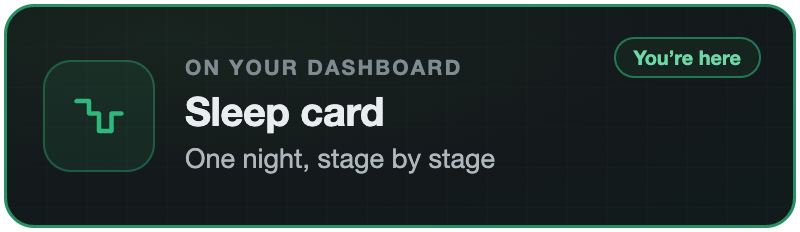
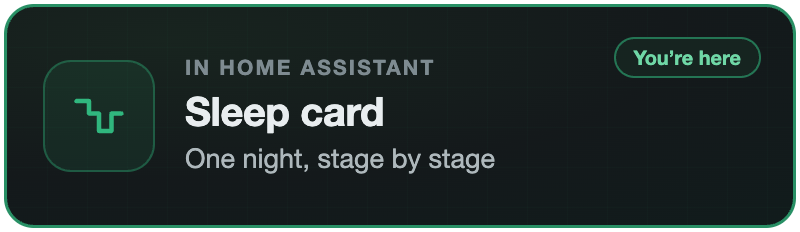
chore: Release 1.0.0, with Home Assistant on the family card (#1)

Changed region(s): [[0.2188, 0.2414, 0.5938, 0.3319]]

diff --git a/dist/life-dashboard-sleep-card.js b/dist/life-dashboard-sleep-card.js
@@ -2,7 +2,7 @@
 // A single ES module with no dependencies and no build step. The pure data
 // functions are exported so test/data.test.mjs can run them under Node.
 
-export const VERSION = "0.1.0";
+export const VERSION = "1.0.0";
 
 const CARD_TAG = "life-dashboard-sleep-card";
 const EDITOR_TAG = "life-dashboard-sleep-card-editor";

diff --git a/CONTRIBUTING.md b/CONTRIBUTING.md
@@ -25,6 +25,12 @@ node test/render.mjs /tmp/sleep-card
 
 Commit messages and pull request titles follow `type: Sentence with a capital`, such as `fix: Keep the hour ticks inside the plot`. Add a line under `## [Unreleased]` in `CHANGELOG.md` when a user would notice the change.
 
+## Releasing
+
+Versions are strict semver (`X.Y.Z`) and live in four places that must agree: `VERSION` in `dist/life-dashboard-sleep-card.js`, `version` in `package.json`, the section in `CHANGELOG.md`, and the git tag, which is the version without a prefix. A GitHub release on the tag is what the Marketplace offers to users.
+
+The Marketplace installs `life-dashboard-sleep-card.js` from the release, and its download count is the install count. The `Release file` workflow runs the tests and attaches the file when a release is published, and fails when the versions do not match the tag. For an older release without the file, run the workflow by hand with that tag.
+
 ## Where things belong
 
 The card only draws. Sensors, statistics and the night chart image are in the [integration](https://github.com/owen282000/life-dashboard-ha), and syncing is in the phone apps.

diff --git a/CHANGELOG.md b/CHANGELOG.md
@@ -6,7 +6,7 @@ All notable changes to this card are documented here. The format follows
 
 ## [Unreleased]
 
-## [0.1.0] - 2026-11-09
+## [1.0.0] - 2026-11-09
 
 ### Added
 
